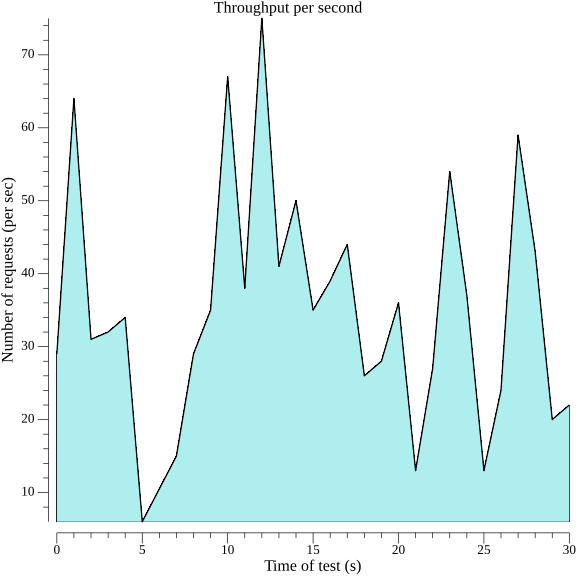
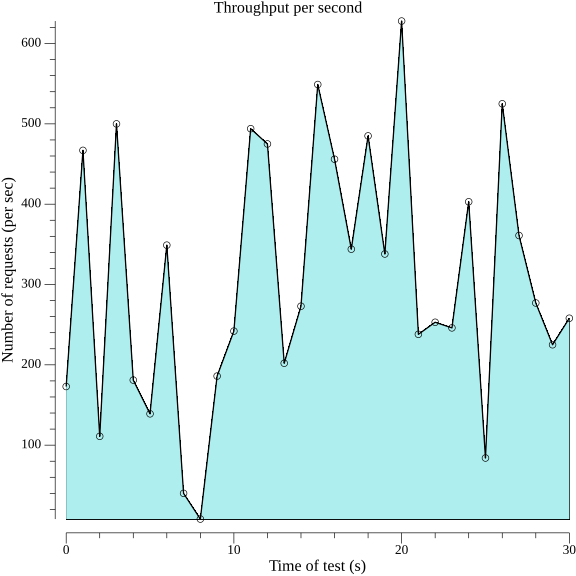
add error rate plot

diff --git a/cmd/plot.go b/cmd/plot.go
@@ -16,6 +16,10 @@ import (
 )
 
 func plotHistogramLatency(file string, times []Datapoint) {
+	if len(times) == 0 {
+		// nothing to plot
+		return
+	}
 	var values plotter.Values
 	for _, v := range times {
 		values = append(values, v.Duration)
@@ -28,9 +32,9 @@ func plotHistogramLatency(file string, times []Datapoint) {
 		panic(err)
 	}
 	p.X.Label.Text = "Latencies (ms)"
-	p.X.Tick.Marker = hplot.Ticks{N: 10, Format: "%.0f"}
+	p.X.Tick.Marker = hplot.Ticks{N: 3, Format: "%.0f"}
 	p.Y.Label.Text = "Number of requests"
-	p.Y.Tick.Marker = hplot.Ticks{N: 10, Format: "%.0f"}
+	p.Y.Tick.Marker = hplot.Ticks{N: 3, Format: "%.0f"}
 	hist.FillColor = color.RGBA{R: 175, G: 238, B: 238}
 	p.Add(hist)
 
@@ -40,6 +44,10 @@ func plotHistogramLatency(file string, times []Datapoint) {
 }
 
 func plotBoxPlotLatency(file, server string, times []Datapoint) {
+	if len(times) == 0 {
+		// nothing to plot
+		return
+	}
 	var values plotter.Values
 	for _, v := range times {
 		values = append(values, v.Duration)
@@ -47,7 +55,7 @@ func plotBoxPlotLatency(file, server string, times []Datapoint) {
 	p := plot.New()
 	p.Title.Text = "Latencies distribution"
 	p.Y.Label.Text = "Latencies (ms)"
-	p.Y.Tick.Marker = hplot.Ticks{N: 10, Format: "%.0f"}
+	p.Y.Tick.Marker = hplot.Ticks{N: 3, Format: "%.0f"}
 	p.NominalX(server)
 
 	boxplot, err := plotter.NewBoxPlot(vg.Length(120), 0, values)
@@ -63,6 +71,10 @@ func plotBoxPlotLatency(file, server string, times []Datapoint) {
 }
 
 func plotResponses(file string, rcodes map[int]int64) {
+	if len(rcodes) == 0 {
+		// nothing to plot
+		return
+	}
 	sortedKeys := make([]int, 0)
 	for k := range rcodes {
 		sortedKeys = append(sortedKeys, k)
@@ -102,7 +114,7 @@ func plotResponses(file string, rcodes map[int]int64) {
 	}
 
 	p.Y.Label.Text = "Number of requests"
-	p.Y.Tick.Marker = hplot.Ticks{N: 10, Format: "%.0f"}
+	p.Y.Tick.Marker = hplot.Ticks{N: 3, Format: "%.0f"}
 	p.Legend.Top = true
 
 	if err := p.Save(6*vg.Inch, 6*vg.Inch, file); err != nil {
@@ -111,6 +123,10 @@ func plotResponses(file string, rcodes map[int]int64) {
 }
 
 func plotLineThroughput(file string, times []Datapoint) {
+	if len(times) == 0 {
+		// nothing to plot
+		return
+	}
 	var values plotter.XYs
 	m := make(map[int64]int64)
 
@@ -137,9 +153,9 @@ func plotLineThroughput(file string, times []Datapoint) {
 	p := plot.New()
 	p.Title.Text = "Throughput per second"
 	p.X.Label.Text = "Time of test (s)"
-	p.X.Tick.Marker = hplot.Ticks{N: 10, Format: "%.0f"}
+	p.X.Tick.Marker = hplot.Ticks{N: 3, Format: "%.0f"}
 	p.Y.Label.Text = "Number of requests (per sec)"
-	p.Y.Tick.Marker = hplot.Ticks{N: 10, Format: "%.0f"}
+	p.Y.Tick.Marker = hplot.Ticks{N: 3, Format: "%.0f"}
 
 	l, err := plotter.NewLine(values)
 	l.FillColor = color.RGBA{R: 175, G: 238, B: 238}
@@ -147,6 +163,12 @@ func plotLineThroughput(file string, times []Datapoint) {
 		panic(err)
 	}
 	p.Add(l)
+
+	scatter, err := plotter.NewScatter(values)
+	if err != nil {
+		panic(err)
+	}
+	p.Add(scatter)
 
 	if err := p.Save(6*vg.Inch, 6*vg.Inch, file); err != nil {
 		fmt.Fprintln(os.Stderr, "Failed to save plot.", err)
@@ -161,6 +183,10 @@ type latencyMeasurements struct {
 }
 
 func plotLineLatencies(file string, times []Datapoint) {
+	if len(times) == 0 {
+		// nothing to plot
+		return
+	}
 	m := make(map[int64]latencyMeasurements)
 
 	timings := make([]float64, 0)
@@ -228,9 +254,7 @@ func plotLineLatencies(file string, times []Datapoint) {
 	p := plot.New()
 	p.Title.Text = "Response latencies"
 	p.X.Label.Text = "Time of test (s)"
-	p.X.Tick.Marker = hplot.Ticks{N: 10, Format: "%.0f"}
 	p.Y.Label.Text = "Latency (ms)"
-	p.Y.Tick.Marker = hplot.Ticks{N: 10, Format: "%.0f"}
 
 	plotLine(p, p99values, plotutil.DarkColors[0], plotutil.SoftColors[0], "p99")
 	plotLine(p, p95values, plotutil.DarkColors[1], plotutil.SoftColors[1], "p95")
@@ -238,6 +262,59 @@ func plotLineLatencies(file string, times []Datapoint) {
 	plotLine(p, p50values, plotutil.DarkColors[3], plotutil.SoftColors[3], "p50")
 
 	p.Legend.Top = true
+
+	if err := p.Save(6*vg.Inch, 6*vg.Inch, file); err != nil {
+		fmt.Fprintln(os.Stderr, "Failed to save plot.", err)
+	}
+}
+
+func plotErrorRate(file string, times []ErrorDatapoint) {
+	if len(times) == 0 {
+		// nothing to plot
+		return
+	}
+	var values plotter.XYs
+	m := make(map[int64]int64)
+
+	if len(times) != 0 {
+		first := times[0].Start.Unix()
+
+		for _, v := range times {
+			unix := v.Start.Unix() - first
+			if _, ok := m[unix]; !ok {
+				m[unix] = 0
+			}
+			m[unix]++
+		}
+	}
+
+	for k, v := range m {
+		values = append(values, plotter.XY{X: float64(k), Y: float64(v)})
+	}
+
+	sort.SliceStable(values, func(i, j int) bool {
+		return values[i].X < values[j].X
+	})
+
+	p := plot.New()
+	p.Title.Text = "Error rate over time"
+	p.X.Label.Text = "Time of test (s)"
+	p.X.Tick.Marker = hplot.Ticks{N: 3, Format: "%.0f"}
+	p.Y.Label.Text = "Number of errors (per sec)"
+	p.Y.Tick.Marker = hplot.Ticks{N: 3, Format: "%.0f"}
+
+	l, err := plotter.NewLine(values)
+	l.FillColor = plotutil.SoftColors[0]
+	if err != nil {
+		panic(err)
+	}
+	p.Add(l)
+
+	scatter, err := plotter.NewScatter(values)
+	if err != nil {
+		panic(err)
+	}
+	p.Add(scatter)
 
 	if err := p.Save(6*vg.Inch, 6*vg.Inch, file); err != nil {
 		fmt.Fprintln(os.Stderr, "Failed to save plot.", err)
@@ -253,4 +330,10 @@ func plotLine(p *plot.Plot, values plotter.XYs, color color.Color, fill color.Co
 	l.FillColor = fill
 	p.Add(l)
 	p.Legend.Add(name, l)
+	scatter, err := plotter.NewScatter(values)
+	if err != nil {
+		panic(err)
+	}
+	scatter.Color = color
+	p.Add(scatter)
 }

diff --git a/cmd/plot_test.go b/cmd/plot_test.go
@@ -9,7 +9,7 @@ import (
 	"github.com/stretchr/testify/require"
 )
 
-var timings = []Datapoint{
+var testDatapoints = []Datapoint{
 	{Start: time.Now(), Duration: 100},
 	{Start: time.Now().Add(time.Second), Duration: 200},
 	{Start: time.Now().Add(2 * time.Second), Duration: 300},
@@ -23,7 +23,17 @@ var timings = []Datapoint{
 	{Start: time.Now().Add(10 * time.Second), Duration: 200},
 }
 
-var rcodes = map[int]int64{
+var testErrorDatapoints = []ErrorDatapoint{
+	{Start: time.Now()},
+	{Start: time.Now().Add(2 * time.Second)},
+	{Start: time.Now().Add(3 * time.Second)},
+	{Start: time.Now().Add(4 * time.Second)},
+	{Start: time.Now().Add(5 * time.Second)},
+	{Start: time.Now().Add(6 * time.Second)},
+	{Start: time.Now().Add(7 * time.Second)},
+}
+
+var testRcodes = map[int]int64{
 	0: 8,
 	2: 1,
 	3: 2,
@@ -33,7 +43,7 @@ func Test_plotHistogramLatency(t *testing.T) {
 	dir := t.TempDir()
 
 	file := dir + "/histogram-latency.png"
-	plotHistogramLatency(file, timings)
+	plotHistogramLatency(file, testDatapoints)
 
 	expected, err := os.ReadFile("test-histogram-latency.png")
 	require.NoError(t, err)
@@ -48,7 +58,7 @@ func Test_plotBoxPlotLatency(t *testing.T) {
 	dir := t.TempDir()
 
 	file := dir + "/boxplot-latency.png"
-	plotBoxPlotLatency(file, "127.0.0.1", timings)
+	plotBoxPlotLatency(file, "127.0.0.1", testDatapoints)
 
 	expected, err := os.ReadFile("test-boxplot-latency.png")
 	require.NoError(t, err)
@@ -63,7 +73,7 @@ func Test_plotResponses(t *testing.T) {
 	dir := t.TempDir()
 
 	file := dir + "/responses-barchart.png"
-	plotResponses(file, rcodes)
+	plotResponses(file, testRcodes)
 
 	expected, err := os.ReadFile("test-responses-barchart.png")
 	require.NoError(t, err)
@@ -71,14 +81,14 @@ func Test_plotResponses(t *testing.T) {
 	actual, err := os.ReadFile(file)
 	require.NoError(t, err)
 
-	assert.Equal(t, expected, actual, "generated boxplot latency plot does not equal to expected 'test-responses-barchart.png'")
+	assert.Equal(t, expected, actual, "generated responses plot does not equal to expected 'test-responses-barchart.png'")
 }
 
 func Test_plotLineThroughput(t *testing.T) {
 	dir := t.TempDir()
 
 	file := dir + "/throughput-lineplot.png"
-	plotLineThroughput(file, timings)
+	plotLineThroughput(file, testDatapoints)
 
 	expected, err := os.ReadFile("test-throughput-lineplot.png")
 	require.NoError(t, err)
@@ -86,14 +96,14 @@ func Test_plotLineThroughput(t *testing.T) {
 	actual, err := os.ReadFile(file)
 	require.NoError(t, err)
 
-	assert.Equal(t, expected, actual, "generated boxplot latency plot does not equal to expected 'test-throughput-lineplot.png'")
+	assert.Equal(t, expected, actual, "generated line throughput plot does not equal to expected 'test-throughput-lineplot.png'")
 }
 
 func Test_plotLineLatencies(t *testing.T) {
 	dir := t.TempDir()
 
 	file := dir + "/latency-lineplot.png"
-	plotLineLatencies(file, timings)
+	plotLineLatencies(file, testDatapoints)
 
 	expected, err := os.ReadFile("test-latency-lineplot.png")
 	require.NoError(t, err)
@@ -101,5 +111,20 @@ func Test_plotLineLatencies(t *testing.T) {
 	actual, err := os.ReadFile(file)
 	require.NoError(t, err)
 
-	assert.Equal(t, expected, actual, "generated boxplot latency plot does not equal to expected 'test-latency-lineplot.png'")
+	assert.Equal(t, expected, actual, "generated line latencies plot does not equal to expected 'test-latency-lineplot.png'")
+}
+
+func Test_plotErrorRate(t *testing.T) {
+	dir := t.TempDir()
+
+	file := dir + "/errorrate-lineplot.png"
+	plotErrorRate(file, testErrorDatapoints)
+
+	expected, err := os.ReadFile("test-errorrate-lineplot.png")
+	require.NoError(t, err)
+
+	actual, err := os.ReadFile(file)
+	require.NoError(t, err)
+
+	assert.Equal(t, expected, actual, "generated error rate plot does not equal to expected 'test-errorrate-lineplot.png")
 }

diff --git a/cmd/report.go b/cmd/report.go
@@ -44,6 +44,7 @@ func (b *Benchmark) PrintReport(w io.Writer, stats []*ResultStats, benchmarkDura
 	codeTotals := make(map[int]int64)
 	qtypeTotals := make(map[string]int64)
 	times := make([]Datapoint, 0)
+	errTimes := make([]ErrorDatapoint, 0)
 
 	errs := make(map[string]int, 0)
 	top3errs := make(map[string]int)
@@ -60,6 +61,8 @@ func (b *Benchmark) PrintReport(w io.Writer, stats []*ResultStats, benchmarkDura
 			} else {
 				errs[errorString] = 1
 			}
+
+			errTimes = append(errTimes, s.Errors...)
 		}
 
 		timings.Merge(s.Hist)
@@ -100,9 +103,14 @@ func (b *Benchmark) PrintReport(w io.Writer, stats []*ResultStats, benchmarkDura
 		}
 	}
 
-	// sort data points from the oldest to the earliest so we can better plot time dependant graphs (like line)
+	// sort data points from the oldest to the earliest, so we can better plot time dependant graphs (like line)
 	sort.SliceStable(times, func(i, j int) bool {
 		return times[i].Start.Before(times[j].Start)
+	})
+
+	// sort error data points from the oldest to the earliest, so we can better plot time dependant graphs (like line)
+	sort.SliceStable(errTimes, func(i, j int) bool {
+		return errTimes[i].Start.Before(errTimes[j].Start)
 	})
 
 	if len(b.PlotDir) != 0 {
@@ -116,6 +124,7 @@ func (b *Benchmark) PrintReport(w io.Writer, stats []*ResultStats, benchmarkDura
 		plotResponses(b.fileName(dir, "responses-barchart"), codeTotals)
 		plotLineThroughput(b.fileName(dir, "throughput-lineplot"), times)
 		plotLineLatencies(b.fileName(dir, "latency-lineplot"), times)
+		plotErrorRate(b.fileName(dir, "errorrate-lineplot"), errTimes)
 	}
 
 	var csv *os.File

diff --git a/docs/graphs.md b/docs/graphs.md
@@ -11,7 +11,7 @@ Graphs are exported into the new subdirectory `graphs-<RFC3339 timestamp>` on pr
 For example, this command
 
 ```
-dnspyre -d 30s -c 2 --server 8.8.8.8 --plot . https://raw.githubusercontent.com/Tantalor93/dnspyre/master/data/10000-domains
+dnspyre -d 30s -c 20 --server 8.8.8.8 --plot . https://raw.githubusercontent.com/Tantalor93/dnspyre/master/data/10000-domains
 ```
 
 generates these graphs:
@@ -19,7 +19,8 @@ generates these graphs:
 * response latency boxplot, see [Latency boxplot](#latency-boxplot) section
 * barchart of response codes, see [Response codes barchart](#response-codes-barchart) section
 * throughput of DNS server during the benchmark, see [Throughput line graph](#throughput-line-graph) section
-* linegraphs of observed latencies of responses of DNS server, see [Latency line plot](#latency-line-plot) section
+* line graphs of observed latencies of responses of DNS server, see [Latency line plot](#latency-line-plot) section
+* error rate over time, see []
 
 ## Latency histogram
 Shows the distribution of response latencies 
@@ -45,3 +46,8 @@ Shows the throughput of DNS requests during benchmark execution
 Shows the latencies of DNS responses during benchmark execution
 
 ![latency line](graphs/latency-lineplot.png)
+
+## Error rate over time plot
+Shows the number of errors during benchmark execution
+
+![error rate line](graphs/errorrate-lineplot.png)
